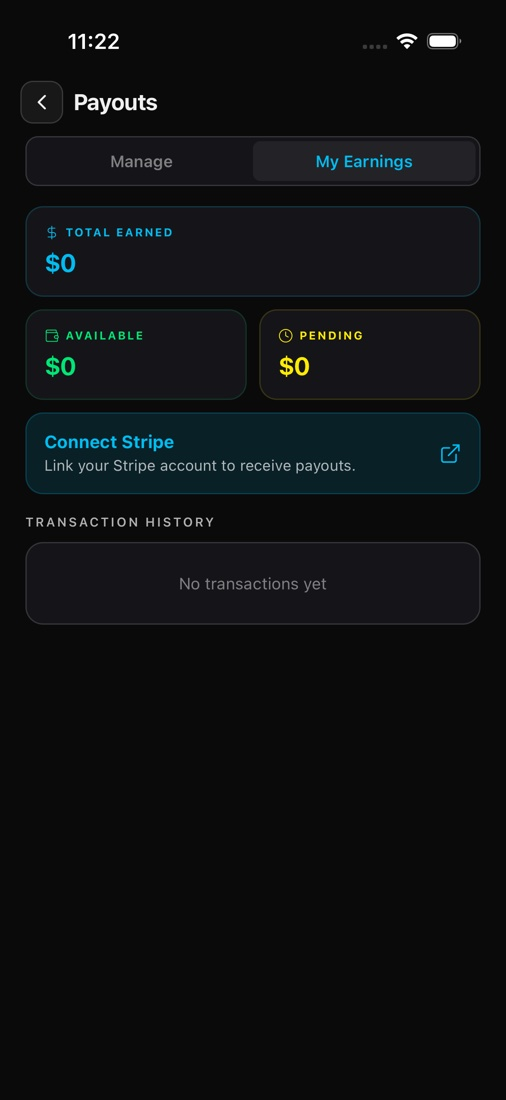
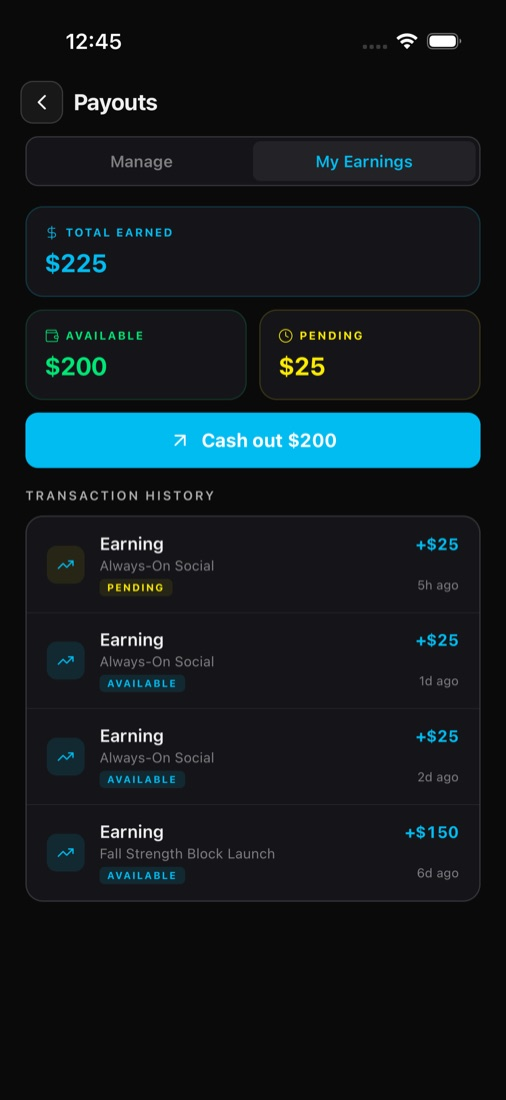
Every tour section gets the app beside the web: messages thread, brand kit, finished cut, refreshed earnings; payouts show real paid history

diff --git a/site/src/fragments/platform.html b/site/src/fragments/platform.html
@@ -823,9 +823,14 @@ body > * { position: relative; z-index: 1; }
         <p>Watch clips land on the live map as people film. Message one filmer or all of them, or send a direction mid-shoot: it hits their phone as a notification while the camera is up. Course-correct in the moment, not after the footage is home.</p>
       </div>
       <div class="pipe-visual">
+        <div class="pipe-pair">
+          <div class="pipe-pair-main">
         <div class="pipe-stack">
           <div class="pipe-frame pipe-frame--browser pipe-stack-back" data-lb="The live map"><div class="pipe-bar"><span></span><span></span><span></span></div><img src="/app-ui/live/desk-map.jpg" alt="The clip map: where every clip was filmed, pin by pin" loading="lazy"></div>
           <div class="pipe-frame pipe-frame--browser pipe-stack-front" data-lb="Messages & directions"><div class="pipe-bar"><span></span><span></span><span></span></div><img src="/app-ui/live/desk-messages.jpg" alt="Messages and directions: talk to one filmer or all of them" loading="lazy"></div>
+        </div>
+          </div>
+          <div class="pipe-frame pipe-frame--phone pipe-side-phone" data-lb="In the app"><img src="/app-ui/live/app-messages.jpg" alt="The same conversation in the Cinebody app" loading="lazy"></div>
         </div>
         <div class="pipe-cap">Directions land as notifications, while they film</div>
       </div>
@@ -891,9 +896,14 @@ body > * { position: relative; z-index: 1; }
         <p>It reads all your footage, tells you the story it found, and one click builds the cut: best takes in order, B-roll over the seams, captions, music. Don't love it? Type a note like "get to the hook faster" and it revises just that.</p>
       </div>
       <div class="pipe-visual">
+        <div class="pipe-pair">
+          <div class="pipe-pair-main">
         <div class="pipe-stack">
           <div class="pipe-frame pipe-frame--browser pipe-stack-back" data-lb="The story it found"><div class="pipe-bar"><span></span><span></span><span></span></div><img src="/app-ui/live/desk-postproduction.jpg" alt="The AI reads the footage and writes the story brief" loading="lazy"></div>
           <div class="pipe-frame pipe-frame--browser pipe-stack-front" data-lb="The timeline it built"><div class="pipe-bar"><span></span><span></span><span></span></div><img src="/app-ui/live/desk-postgen.jpg" alt="One click later: a finished timeline with captions and music" loading="lazy"></div>
+        </div>
+          </div>
+          <div class="pipe-frame pipe-frame--phone pipe-side-phone" data-lb="The finished cut"><img src="/app-ui/live/app-cut.jpg" alt="The finished vertical cut, the way it lands on the feed" loading="lazy"></div>
         </div>
         <div class="pipe-cap">Auto-Editor · the brief, then the cut</div>
       </div>
@@ -912,9 +922,14 @@ body > * { position: relative; z-index: 1; }
         <p>Point it at your website and it drafts your logo, colors, voice, and filming rules. From then on, every shot list, cover, caption, and cut stays on brand automatically.</p>
       </div>
       <div class="pipe-visual">
+        <div class="pipe-pair">
+          <div class="pipe-pair-main">
         <div class="pipe-stack">
           <div class="pipe-frame pipe-frame--browser pipe-stack-back" data-lb="Brand profile"><div class="pipe-bar"><span></span><span></span><span></span></div><img src="/app-ui/live/desk-brandprofile.jpg" alt="Brand profile: voice, audience, and filming rules" loading="lazy"></div>
           <div class="pipe-frame pipe-frame--browser pipe-stack-front" data-lb="Visual identity"><div class="pipe-bar"><span></span><span></span><span></span></div><img src="/app-ui/live/desk-brandkit.jpg" alt="Brand Kit: logo and colors, fetched from your site" loading="lazy"></div>
+        </div>
+          </div>
+          <div class="pipe-frame pipe-frame--phone pipe-side-phone" data-lb="In the app"><img src="/app-ui/live/app-brandkit.jpg" alt="Brand Kit in the Cinebody app" loading="lazy"></div>
         </div>
         <div class="pipe-cap">Brand Kit · both pages, fetched from your site</div>
       </div>

diff --git a/DEMO-ORG-PLAN.md b/DEMO-ORG-PLAN.md
@@ -40,3 +40,8 @@
 - Sim recipe: Metro `npx expo start --dev-client --port 8082` (app.json runtimeVersion temporarily "1.0.0", REVERTED after), Appium started with cwd = the scratchpad that has appium-xcuitest-driver in node_modules (home autodetects from cwd).
 - Scott's personal filmer card on Pulse still shows his dev filmer stats (relinking his user row was out of bounds); it appears in desk-pulse.jpg like it did before.
 - Old bug from last session: PEXELS_API_KEY still missing on Vercel; clips were scraped via headed Chrome instead (Cloudflare blocks headless).
+
+## Addendum (same day, later)
+- Every tour section now has a phone frame: app-messages (same Chris thread), app-brandkit, app-cut (real frame from the Open Gym Night cut's footage), plus refreshed app-earnings.
+- Payments story deepened: Jordan Reyes ($190) and Marcus Lee ($80) cashed out (completed cashouts scoped to their shoots) — web Payouts shows Total Paid $270; Maya kept at $200 available for the app Cash Out screen.
+- scott@cinebody.com users.filmer_profile_id now points at Maya Torres' demo profile (d45e0e9b-70a2-4560-9258-83b6853a6481) so app My Earnings looks real; original value was bd06de0c-682e-4023-b5c5-0d24c0ce0776. The Pulse filmer card pools ALL clips under the email (174 dev QA clips, 3.5 avg) so it was hidden for the desk-pulse capture by nulling the field, then relinked to Maya.
